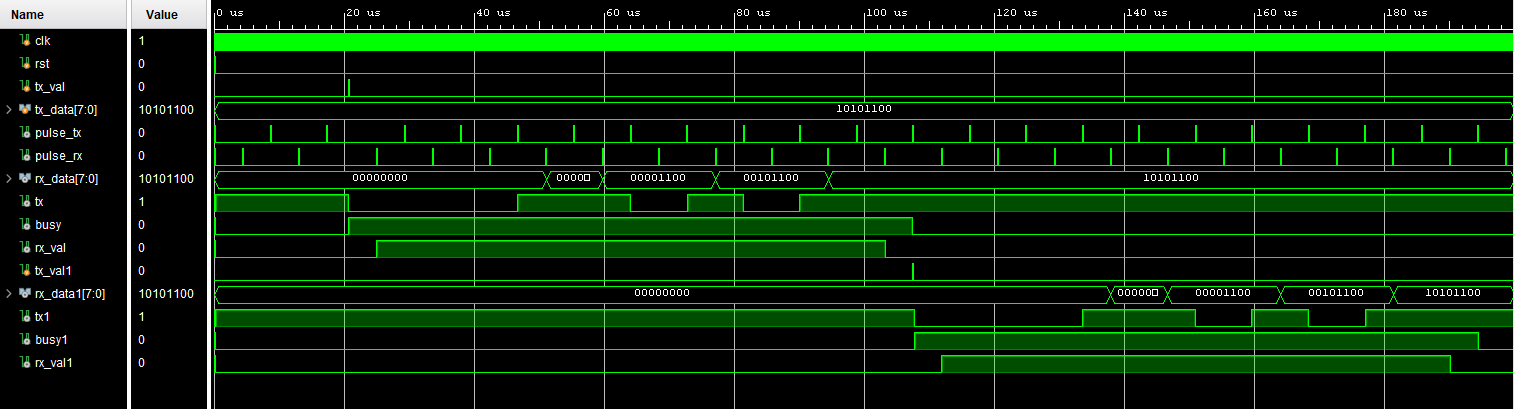
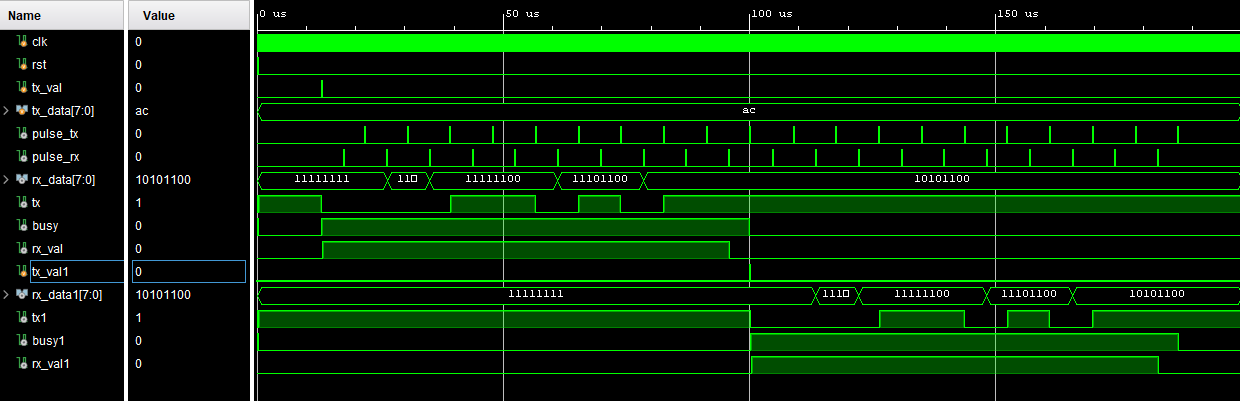
update1.2

Changed region(s): [[0.0, 0.0, 1.0, 1.0]]

diff --git a/readme.md b/readme.md
@@ -8,15 +8,17 @@ This module sends and receives 8 bits of data with one start and one stop bit (n
 
 Module Name | Explanation | Input Ports |Output Ports
 --- | --- | --- | ---
-baudgen | Sets the baudrate | clk_100MHz, rst | pulse_tx, pulse_rx
+baudgen | Sets the baudrate | clk, clk_100MHz, rst, busy, rx_val | pulse_tx, pulse_rx
 UART_Tx | Transmits given data|clk, rst, tx_val, pulse_tx, tx_data (7:0)| tx, busy
 UART_Rx | Receives and stores data | clk, rst, pulse_rx, rx| rx_data (7:0), rx_val
 </br>
 
 ## 1.1 baudgen
-**baudgen** module is used for generating pulses which will be used in **UART_Tx** and **UART_Rx** modules. In our testbench we are using a 10 MHz clock (100 ns period) and from 115200 baudrate, our bits will have 8.68 usec period. From 10 MHz / 115200 Hz, we get 87. That means if we pass 87 clock cycles of 10 Mhz clock, that will be equal to 8.7 usec period. To improve the accuracy, we will be using a 100 MHz clock for only **baudgen** module, that way we will be able to pass 868 cyles of 100 MHz clock and that will be equal to 8.68 usec. 
+**baudgen** module is used for generating pulses which will be used in **UART_Tx** and **UART_Rx** modules. In our testbench we are using a 10 MHz clock (100 ns period) and from 115200 baudrate, our bits will have 8.68 usec period. From 10 MHz / 115200 Hz, we get 87. That means, if we pass 87 clock cycles of 10 Mhz clock, that will be equal to 8.7 usec period. To improve the accuracy, we will be using a 100 MHz clock for only **baudgen** module, that way we will be able to pass 868 cyles of 100 MHz clock and that will be equal to 8.68 usec. 
 
 For transmitting the datas, we will create a pulse signal (**pulse_tx**) that is low for 8.58 us and high for 100 ns (total 8.68 usec). On the receiver side, we will also create a pulse signal (**pulse_rx**) with the same lengths but to be able to sample the received data safely, we will arrange it to be high for 100ns at the middle of the low states of transmit pulses.
+
+In every **busy** and **rx_val** signal rising edges, **pulse_tx** and **pulse_rx** signals will be reset respectively and during **busy** and **rx_val** signals, counters will be incremented to create pulses periodically. If there are no **busy** or **rx_val** signals present, pulses will be 0.
 </br></br>
 ## 1.2 UART_Tx
 This module uses 5 states to transmit an 8 bit data with start and stop bits.
@@ -24,14 +26,14 @@ In **idle** state, in every rising edge of 10 MHz clock, it checks if a **tx_val
 If there is a **tx_val** signal in any rising edge clock, the **baudgen** is reset and at the next clock edge, the state becomes **start**. 
 From this point to the **done** state, in order to begin executing the next state, the module will wait for the **pulse_tx** signal. 
 
-**Busy** signal will be high from the **start** state to the end of the **stop** state, so that we can observe and know when the **UART_Tx** is busy. In state **transmit_data**, we will begin transmitting our data. After sending 8 bits of data, the **stop** state will begin and the module will send high signal from its **tx** port until the next **pulse_tx**. 
+**Busy** signal will be high from the **start** state to the end of the **stop** state, so that we can observe and know when the **UART_Tx** is busy, also as stated before it will be used creating **pulse_tx**. In state **transmit_data**, we will begin transmitting our data. After sending 8 bits of data, the **stop** state will begin and the module will send high signal from its **tx** port until the next **pulse_tx**. 
 
 The final transmission state is **done**, which makes the **busy** signal low and checks the **tx_val** signal in case of a tx valid signal exists. If there is not, on the next rising edge of the clock, the **idle** state begins.
 </br></br>
 ## 1.3 UART_Rx
 In this module there are 4 states to receive the transmitted data. In **idle** state, the module waits for a low signal in its **rx** input port.
 If it arrives, **start** state begins and on the the next **pulse_rx**, it checks the received data to make sure it is still low. If it is, on the following **pulse_rx** pulses, the module
-receives the arriving data through its **rx** port and writes it on register **rx_data** in state **receive_data** . On the last state **stop**, it makes the state **idle** for the next rising edge clock. **rx_val** signal becomes high between states **start** and **stop**.
+receives the arriving data through its **rx** port and writes it on register **rx_data** in state **receive_data** . On the last state **stop**, it makes the state **idle** for the next rising edge clock. **rx_val** signal becomes high between states **start** and **stop**. It is used creating **pulse_rx**.
 </br></br>
 ## 2. Testbenches
 ---
@@ -42,11 +44,11 @@ This testbench tests our design by sending its receiver an 8 bit data and makes 
 
 </br>
 
-![](https://github.com/aliufukercan/UART_Module/blob/master/SIM/tb_echo.PNG?raw=true)
+![](https://github.com/aliufukercan/UART_Module/blob/branch/SIM/tb_echo.PNG?raw=true)
 ## 2.2 tb_UART_Array
 
 In this testbench, we use our design to send an array of 13 element data. We check the falling edge of the busy signal to transmit the next data byte. As seen in the below image, the **UART_Tx** module transmits each data byte continuously and the **UART_Rx** module samples the transmitted datas and store them in registers **rx_data** and **received_data**.
 </br></br>
 
-![](https://github.com/aliufukercan/UART_Module/blob/master/SIM/tb_Array.PNG?raw=true)
+![](https://github.com/aliufukercan/UART_Module/blob/branch/SIM/tb_Array.PNG?raw=true)
 

diff --git a/changelog.md b/changelog.md
@@ -9,3 +9,12 @@ The changes on the project will be written here.
 
 - Now baudgen resets every tx_val signal rising edge.
 - readme.md is updated.
+
+# 1.2 - 2021-06-14
+
+### Changed
+
+- baudgen tx and rx pulses now resets every busy and rx_val signal rising edges.
+- Now busy and rx_val signals are used to increment the pulse counters. 
+- Pulses will be 0 if there are no busy or rx_val signals.
+- readme.md updated.
